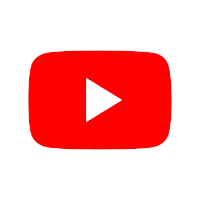
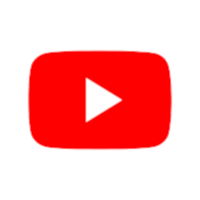
Add search bar && clean code
– Add Google search bar
– Add new image (search icon)
– Update images/yooutube.png
– Add some comments and clean code js/script.js
– Rearrange onkeydown
– Fix some bugs on resize

diff --git a/js/script.js b/js/script.js
@@ -25,14 +25,17 @@ const tiles = [
     new Tile("Enroll", "images/enroll.png", "https://enroll-me.iiet.pl/enrollme-iet/app/enrollment?execution=e6s1")
 ]
 
+const searchBar = document.getElementById("search-bar");
 const rightArrow = document.getElementById("right-arrow");
 const leftArrow = document.getElementById("left-arrow");
 const pageCounter = document.getElementById("page-counter");
+const container = document.getElementById("container");
 
 const minTileMarginVertically = 10;
 const minTileMarginHorizontally = 10;
 const extendedTileWidth = 200 + 2 * minTileMarginVertically;
 const extendedTileHeight = 250 + 2 * minTileMarginHorizontally;
+const letters = /^[A-Za-z]+$/;
 
 let freeSpaceVertically;
 let freeSpaceHorizontally;
@@ -44,15 +47,17 @@ let currentPage = 1;
 function updateInfo() {
     // Calculate current values
     tilesInRow = Math.floor((window.innerWidth - freeSpaceVertically) / extendedTileWidth);
-    rows = Math.floor((window.innerHeight - freeSpaceHorizontally) / extendedTileHeight);
+    rows = Math.max(Math.floor((window.innerHeight - freeSpaceHorizontally) / extendedTileHeight), 0);
     pages = Math.ceil(tiles.length / (tilesInRow * rows));
 
     // Correct currentPage and pageCounter if necessary
     if (currentPage > pages)
         currentPage = pages;
-    if (pages === 1 || pages === Infinity) {
+    if (pages === 1 || pages === Infinity)
         pageCounter.classList.add("invisible");
-    } else pageCounter.classList.remove("invisible");
+    else pageCounter.classList.remove("invisible");
+
+    // update pageCounter
     pageCounter.innerHTML = currentPage + " / " + pages;
 }
 
@@ -70,14 +75,14 @@ function updateMargins() {
 }
 
 function updateArrows() {
-    if (currentPage === 1)
+    if (currentPage === 1)  // First page
         leftArrow.classList.add("invisible");
     else leftArrow.classList.remove("invisible");
-    if (pages !== Infinity) {
-        if (currentPage === pages)
+    if (pages !== Infinity)
+        if (currentPage === pages)  // Last page
             rightArrow.classList.add("invisible");
         else rightArrow.classList.remove("invisible");
-    } else {
+    else {  // Make arrows invisible if there are no tiles
         leftArrow.classList.add("invisible");
         rightArrow.classList.add("invisible");
     }
@@ -111,14 +116,14 @@ function addTiles() {
         a.appendChild(img);
         a.appendChild(p);
         div.appendChild(a);
-        document.getElementById("container").appendChild(div);
+        container.appendChild(div);
     }
 }
 
 function removeTiles() {
-    const tilesToRemove = document.getElementById("container").childNodes;
+    const tilesToRemove = container.childNodes;
     while (tilesToRemove.length > 0)
-        document.getElementById("container").removeChild(tilesToRemove[0]);
+        container.removeChild(tilesToRemove[0]);
 }
 
 function update() {
@@ -171,27 +176,50 @@ window.onload = function () {
     leftArrow.onclick = moveLeft;
 
     window.onkeydown = function (e) {
-        switch (e.key) {
-            case "ArrowRight":
-            case "ArrowDown":
-                moveRight();
-                break;
-            case "ArrowLeft":
-            case "ArrowUp":
-                moveLeft();
-                break;
-            case "Home":
-                currentPage = 1;
-                break;
-            case "End":
-                currentPage = pages;
-                break;
-            default:
-                const key = parseInt(e.key);
-                if (!isNaN(key))
-                    if (key <= pages)
-                        currentPage = key;
+        if (document.activeElement === searchBar) {
+            switch (e.key) {
+                case "ArrowDown":
+                case "Escape":
+                    searchBar.blur();
+                    break;
+                case "Enter":
+                    window.location = "https://www.google.com/search?q=" + searchBar.value;
+                    break;
+            }
+        } else {
+            switch (e.key) {
+                case "ArrowRight":
+                    moveRight();
+                    break;
+                case "ArrowLeft":
+                    moveLeft();
+                    break;
+                case "Home":
+                    currentPage = 1;
+                    break;
+                case "Enter":
+                case "ArrowDown":
+                    e.preventDefault();
+                    break;
+                case "End":
+                    currentPage = pages;
+                    break;
+                case "ArrowUp":
+                    e.preventDefault();
+                    searchBar.focus();
+                    break;
+                default:
+                    if (e.key.match(letters))
+                        searchBar.focus();
+                    else {
+                        const key = parseInt(e.key);
+                        if (!isNaN(key)) {
+                            if (key <= pages && key > 0)
+                                currentPage = key;
+                        }
+                    }
+            }
+            update();
         }
-        update();
     }
 }

diff --git a/css/styles.css b/css/styles.css
@@ -63,6 +63,38 @@ body {
     right: 100px;
 }
 
+/* SEARCH BAR */
+#search {
+    background-color: inherit;
+    position: absolute;
+        height: 60px;
+        width: 50%;
+        left: 25%;
+        top: 30px;
+    z-index: 1;
+}
+
+#search-bar {
+    background-color: rgb(50,50,50);
+    background-image: url("../images/search.png");
+    background-position: 15px 50%;
+    background-size: 25px 25px;
+    background-repeat: no-repeat;
+    border: none;
+    border-radius: 15px;
+    color: inherit;
+    font: italic 20px sans-serif;
+    padding-left: 50px;
+    padding-right: 25px;
+    position: inherit;
+        width: 100%;
+        height: 100%;
+}
+
+#search-bar:focus {
+    background-color: rgb(60,60,60);
+}
+
 /* CONTAINERS */
 #container {
     background-color: inherit;

diff --git a/index.html b/index.html
@@ -16,6 +16,11 @@
     <div class="margin" id="right-margin"></div>
     <img class="arrow" id="left-arrow" src="images/left-arrow.png" alt="" />
     <img class="arrow" id="right-arrow" src="images/right-arrow.png" alt="" />
+    <div id="search">
+        <label>
+            <input id="search-bar" type="text" placeholder="Google search...">
+        </label>
+    </div>
     <div id="container"></div>
     <!-- Tiles are generated in javascript -->
     <div id="page-counter"></div>
